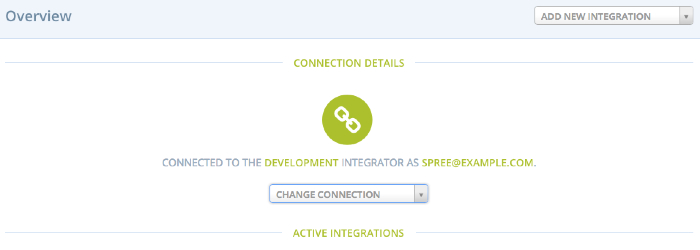
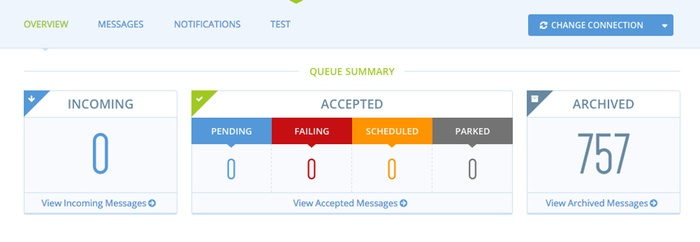
Updated integration configuration guide - Updated outdated screenshots - Added information on configuring a custom endpoint through the hub connector

diff --git a/content/integration/configuration.md b/content/integration/configuration.md
@@ -10,7 +10,7 @@ Installing the tool is a simple matter of adding one line to your product's `Gem
 
 ## Prerequisites
 
-This guide assumes you already have [bundler](http://bundler.io/) installed and that you are familiar with basic Ruby and Rails concepts. It also assume that you already have a functioning Spree storefront.
+This guide assumes you already have [bundler](http://bundler.io/) installed and that you are familiar with basic Ruby and Rails concepts. It also assumes that you already have a functioning Spree storefront.
 
 ## Installation
 
@@ -61,6 +61,8 @@ Values for "Email", "Store Name", and "Store API URL" will already be filled in,
 
 ## Configuration
 
+### Adding An Integration
+
 When you expand the "Add New Integration" drop-down menu, you'll see a list of all of the globally-available integrations. You should review the particular configuration details for any of the [supported integrations](supported_integrations) you want to use, but we'll use [Mandrill](mandrill_integration) as an example to understand how the Configuration tool is used generally.
 
 ![Mandrill Configuration](/images/integration/mandrill_config.jpg)
@@ -87,3 +89,69 @@ By hovering over the buttons on this integration, you see that you have several 
 * Refresh - Re-query the SpreeCommerce hub manually to get any new information.
 * Remove - Remove all of the mappings for individual services to this endpoint. Does not actually delete the integration itself, but will cause the integration not to appear on your store's "Active Integrations" section.
 * Disable All - Clicking the "Enabled" button means the individual services for the integration will be disabled. The integration will still appear on your store's "Active Integrations" section.
+
+### Adding A Custom Integration
+
+#### Overview
+
+***
+For more information on building a custom endpoint, please follow the [custom endpoint tutorials](basic_endpoints_tutorial).
+***
+
+Once you've created your endpoint you'll want to connect it to the hub so it can start processing messages. We'll go over:
+
+1. Adding an `endpoint.json` file for your endpoint.
+
+2. Deploying your endpoint and configuring the security.
+
+3. Registering your endpoint with the hub using the spree_hub_connector gem.
+
+#### endpoint.json
+
+When configuring an Integration using the Spree Hub Connector the information from the `endpoint.json` is used to populate a [mapping](/integration/mapping_basics.html) with default configuration for each configured service.
+
+The file contains some basic details about your endpoint and lists all the available services including which messages you recommend the service to process and all configuration details (like parameters, filters, identifiers that the service may require).
+
+The `endpoint.json` file must be available at the root path of your application via `HTTP GET` request i.e. /endpoint.json
+
+For more details on the contents of the file please refer to the [Custom Integrations](/integration/custom_integrations.html) guide.
+
+#### Deployment and Security
+
+All endpoints must be publicly accessible in order for the hub to be able to route messages to it successfully. All production endpoints must be deployed on SSL secured hosts.
+
+To ensure your endpoint only processes messages from the hub you must configure a preshared key that the hub will include as a HTTP header with each message it delivers.
+
+If you've used the Endpoint Base library to create your endpoint then security checks are already built-in and you just need to configure the `ENDPOINT_KEY` environment variable with a 32 digit (or longer) secret token of your choosing.
+
+#### Registering your endpoint.
+
+Once your endpoint has been deployed, and the `ENDPOINT_KEY` has been configured you are now ready to register your endpoint with the hub. You will need the following details:
+
+1. **URL** - Fully qualified domain name of the application.
+2. **Name** - The name of the endpoint (as contained in the `endpoint.json` file).
+3. **Token** - The 32 digit value you chose as your `ENDPOINT_KEY`
+
+When you expand the "Add New Integration" drop-down menu, you'll see an option to add a custom integration. You can choose this option in order to add an integration for an endpoint that is not in the list of globally available integrations.
+
+After selecting the "Add Custom" option, you will see a form that allows you to fill in your endpoint details and create the new integration.
+
+![Adding A Custom Integration](/images/integration/add_custom_integration.jpg)
+
+Once you have filled out this form, click the "Save" button. The Overview page will update and you will see your custom integration listed in the "Active Integrations" section in the pending state.
+
+![Pending Custom Integration](/images/integration/pending_custom_integration.jpg)
+
+The integration is initially in the pending state while the hub pulls down your endpoint's services from the `endpoint.json` file. While in this state, you can click on the "Edit Properties" option beneath your integration in the Active Integrations list to view it's current status.
+
+Initially you will see a message that tells you to wait while the endpoint configuration is fetched.
+
+![Pending Integration Being Fetched](/images/integration/fetch_custom_integration.jpg)
+
+If there are any errors in your endpoint's `endpoint.json` file this screen will automatically update and list the errors.
+
+![Custom Integration With Errors](/images/integration/errors_custom_integration.jpg)
+
+Once you fix any `endpoint.json` errors that may be present, the integration will be updated and you will be able to configure it exactly like any other global integration.
+
+If you ever need to update the endpoint information for a custom integration, click on the gear icon beneath you integration in the Active Integrations list. This will allow you to edit the endpoint's name, url, or token.
